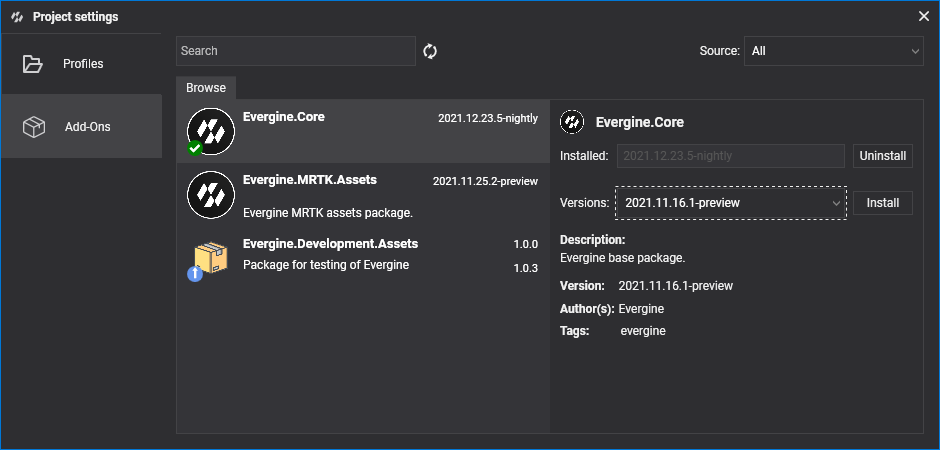
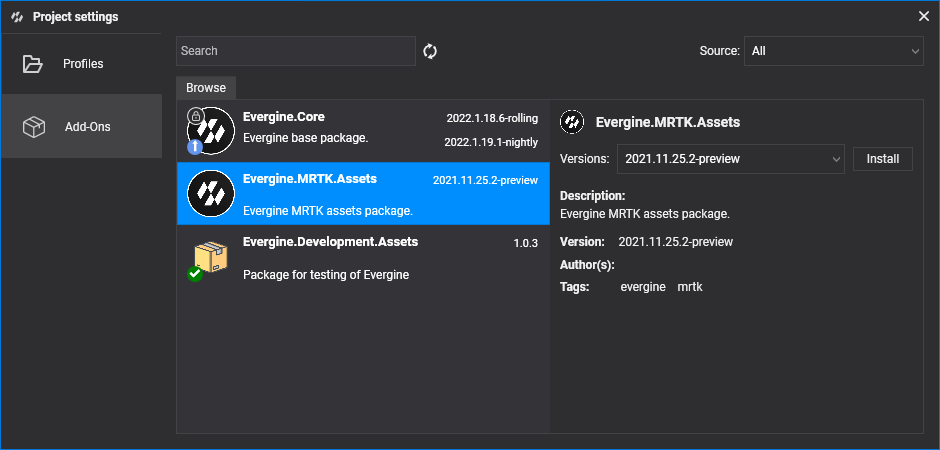
Updated documentation for protected Evergine.Core package

diff --git a/manual/evergine_studio/packages.md b/manual/evergine_studio/packages.md
@@ -69,6 +69,13 @@ If you modify the collection of used packages, Evergine Studio will be reloaded 
 > [!Note]
 > Notice that to use packages that have third NuGet package dependencies, you still need to install them by hand. Add the nuget dependencies to your root project, the one that contains the `EvergineContent.cs` file.
 
+### Protected add-ons
+Some packages like _Evergine.Core_ are required to be synchronized with project's Evergine version, so they are considered as special packages and can't be managed using this panel.
+
+![evergine studio packages manager](Images/package_manager_protected.png)
+
+To updgrade _Evergine.Core_ package, you should update the whole project using Evergine Launcher user interface.
+
 ## Customize assets
 
 By default, all assets included in a package cannot be modified. This is indicated by this lock icon: ![lock icon](Images/locked_icon.png).
